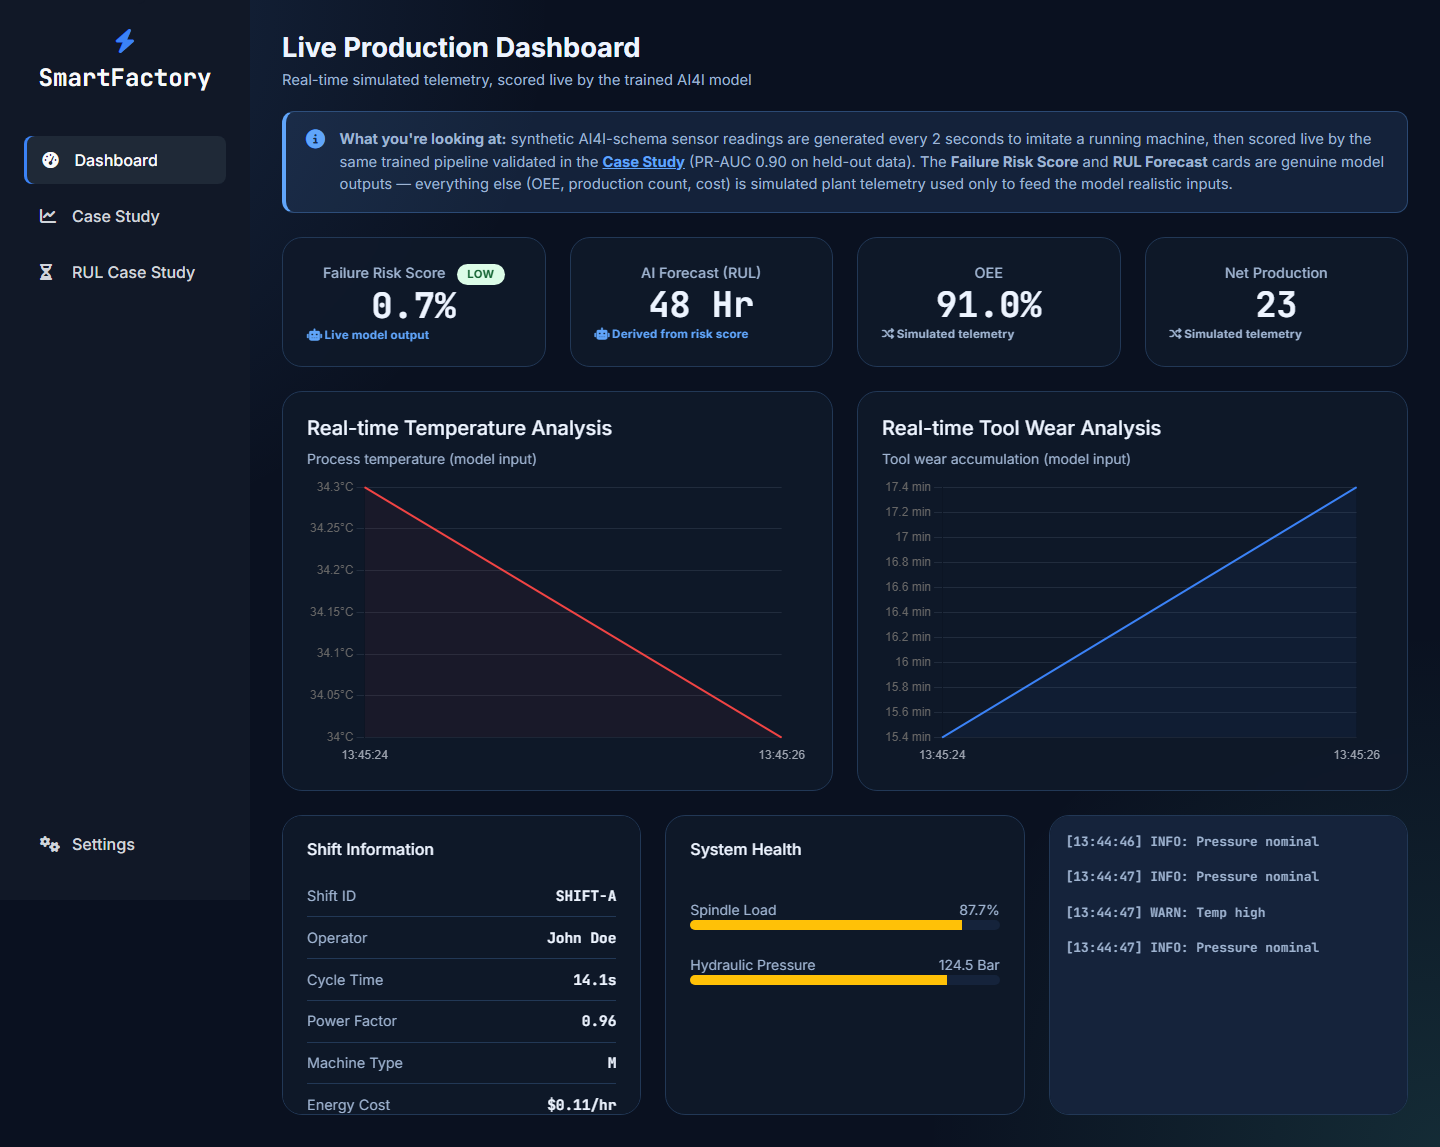
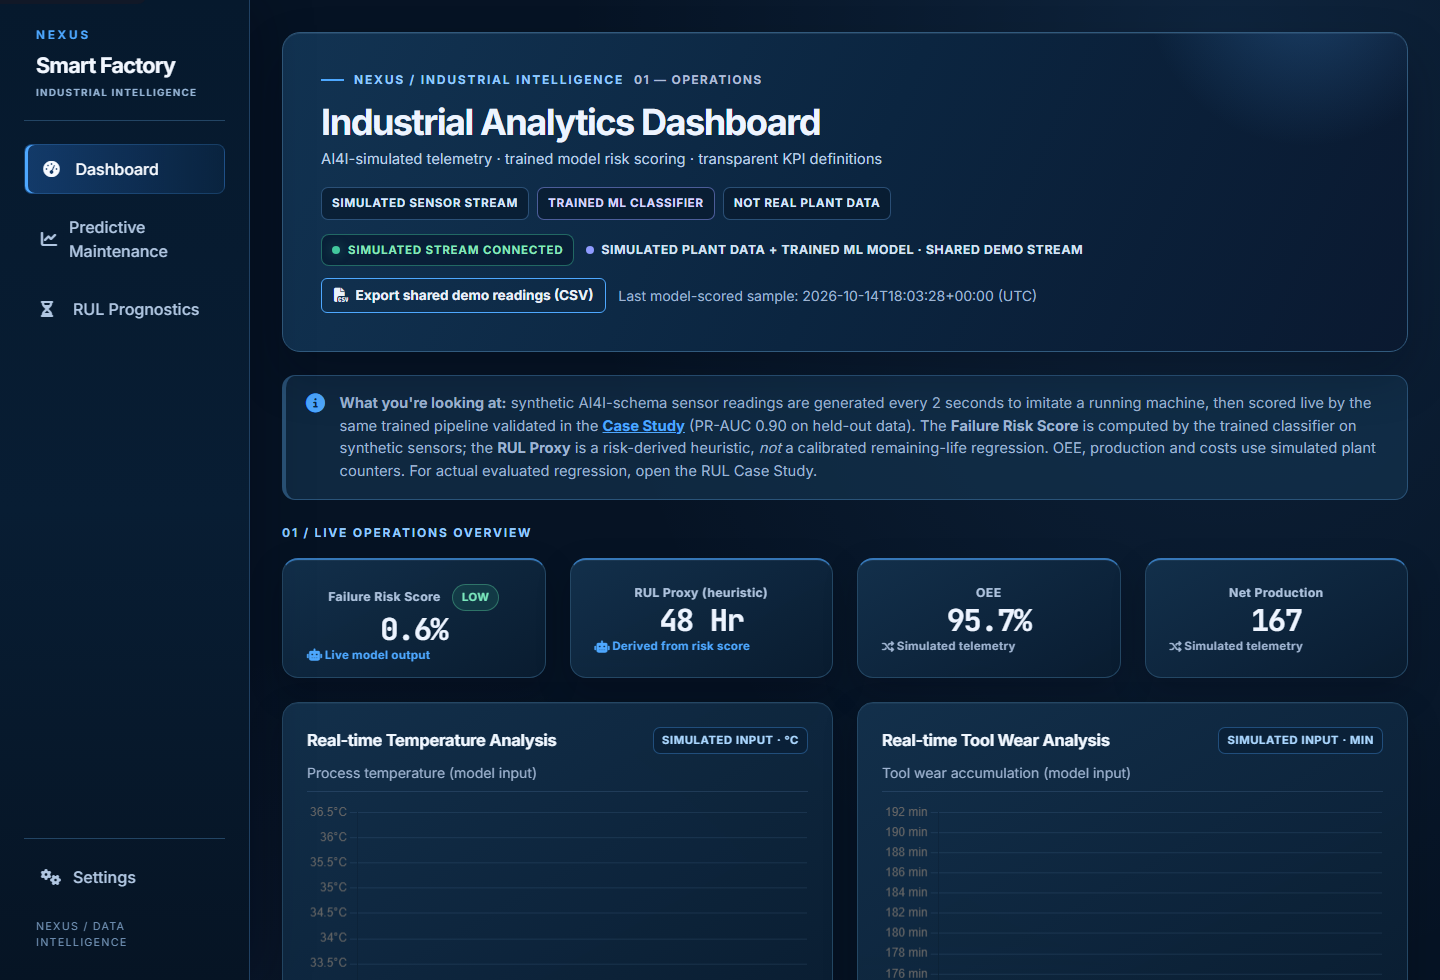
docs(readme): refresh verified production screenshots [skip ci]

diff --git a/README.md b/README.md
@@ -14,11 +14,19 @@ Demo: **[smart-factory-app.onrender.com](https://smart-factory-app.onrender.com)
 
 The application includes **three synchronized, functioning time-series panels** for process temperature, tool wear and the trained classifier's risk score, plus an **OEE decomposition** showing Availability × Performance × Quality. The CSV export contains the Flask worker's **latest 240 shared simulated sensor readings scored by the trained model** (a rolling buffer), including an explicitly labelled *heuristic* RUL proxy. The export does **not** invent plant readings, company data or calibrated survival estimates. Data is created as visitors poll the shared demo endpoint. The CSV is **not isolated per visitor**; different worker processes can show different rolling buffers. A worker with no readings returns a header-only export.
 
-> **Screenshot provenance:** The PNG and video below are existing *historical* application captures. They have **not** been re-rendered from this design update and do not show the new risk-trend/OEE interface. The current real UI must be captured from the running application after deployment is verified; do not replace these assets with AI-generated dashboards or portfolio illustration.
+> **Current production screenshots (14 October 2026):** the PNGs below were taken directly from the live Render release using real Chromium. Sensor/OEE/line data shown on the dashboard is **simulated**, while AI4I and C-MAPSS case-study metrics are offline evaluations, not real-time plant signals. The linked WebM remains a historical video. [Capture provenance](docs/assets/production_screenshot_provenance_20261014.json).
 
 Short historical video: [`docs/assets/smart-factory-dashboard.webm`](docs/assets/smart-factory-dashboard.webm)
 
-![Historical Smart Factory application screenshot, predating the new risk and OEE panels](docs/assets/smart-factory-dashboard.png)
+![Current NEXUS Smart Factory production dashboard with simulated risk trend, OEE and KPIs](docs/assets/smart-factory-dashboard.png)
+
+### Current NEXUS analysis workspaces (real production screenshots)
+
+![Predictive Maintenance intelligence workspace captured from live Render production](docs/assets/smart-factory-maintenance.png)
+
+![RUL Prognostics engineering workspace captured from live Render production](docs/assets/smart-factory-rul.png)
+
+[View real 375px mobile screenshot](docs/assets/smart-factory-mobile-375.png)
 
 ---
 
@@ -48,7 +56,7 @@ When executed with `E2E_SCREENSHOT_DIR=artifacts/gallery`, the suite produces:
 - `smart-factory-mobile-375.png` — 375px dashboard after checking keyboard navigation and overflow.
 - `smart-factory-telemetry-outage.png` — optional failure-state capture if the outage scenario is reached.
 
-These are renderings of **simulated telemetry**, not readings from real factory hardware. Artifacts remain in the CircleCI job and are **not** automatically copied into the README or portfolio. A successful browser job does not verify that a public Render deployment runs the same commit; screenshots still require human review before publication.
+These are renderings of **simulated telemetry**, not readings from real factory hardware. CircleCI captures remain separate from the README. The README images above were independently taken from **Render production** on 14 October 2026, after verifying the deployed Docker commit and routes. The screenshot data is simulated where explicitly labeled, not a real plant data feed.
 
 ---
 
